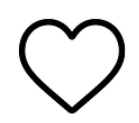
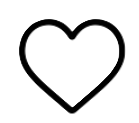
feat: add category to endpage, fix UI after feedback

diff --git a/script.js b/script.js
@@ -5,16 +5,42 @@ if (!localStorage.getItem("sessionId")) {
 
 // Statistiken
 let posts = [];
-let statLikes = 0;
-let statShares = 0;
-let statWarning = 0;
+let stats = JSON.parse(localStorage.getItem("stats")) || {
 
-let realLikes = 0;
-let fakeLikes = 0;
-let realShares = 0;
-let fakeShares = 0;
-let realWarning = 0;
-let fakeWarning = 0;
+  // Gesamtwerte
+  statLikes: 0,
+  statShares: 0,
+  statWarning: 0,
+
+  // Korrekt/Falsch
+  realLikes: 0,
+  fakeLikes: 0,
+  realShares: 0,
+  fakeShares: 0,
+  realWarning: 0,
+  fakeWarning: 0,
+
+  // Kategorien: Likes
+  neutralNewsLikes: 0,
+  neutralPostLikes: 0,
+  emotionalNewsLikes: 0,
+  disinfoLikes: 0,
+  emotionalDisinfoLikes: 0,
+
+  // Kategorien: Shares
+  neutralNewsShares: 0,
+  neutralPostShares: 0,
+  emotionalNewsShares: 0,
+  disinfoShares: 0,
+  emotionalDisinfoShares: 0,
+
+  // Kategorien: Warnungen
+  neutralNewsWarning: 0,
+  neutralPostWarning: 0,
+  emotionalNewsWarning: 0,
+  disinfoWarning: 0,
+  emotionalDisinfoWarning: 0
+};
 
 
 // Posts laden
@@ -27,12 +53,8 @@ fetch("posts.json")
   .catch(error => console.error("Fehler beim Laden der Posts:", error));
 
 
-// Bewertungslogik: Nur „Neutrale Nachricht“ ist korrekt
 function isCorrectCategory(category) {
-  return (
-    category === "Neutrale Nachricht" ||
-    category === "Neutraler Beitrag"
-  );
+return category === "neutralNews" || category === "neutralPost";
 }
 
 
@@ -94,7 +116,9 @@ function renderAllPosts() {
     // LIKE
     likeBtn.onclick = () => {
       likeBtn.src = "images/like-red.PNG";
-      disableOtherButtons(warnBtn, likeBtn);
+
+      warnBtn.style.pointerEvents = "none";
+      warnBtn.style.opacity = "0.4";
 
       let count = parseInt(likeCount.textContent);
       likeCount.textContent = count + 1;
@@ -105,14 +129,23 @@ function renderAllPosts() {
     // SHARE
     shareBtn.onclick = () => {
       shareBtn.src = "images/share-green.PNG";
-      disableOtherButtons(warnBtn, shareBtn);
+
+      warnBtn.style.pointerEvents = "none";
+      warnBtn.style.opacity = "0.4";
+
       handleAction("share", post);
     };
 
     // WARNING
     warnBtn.onclick = () => {
       warnBtn.src = "images/warning-red.png";
-      disableOtherButtons(warnBtn, likeBtn, shareBtn);
+
+      likeBtn.style.pointerEvents = "none";
+      likeBtn.style.opacity = "0.4";
+
+      shareBtn.style.pointerEvents = "none";
+      shareBtn.style.opacity = "0.4";
+
       handleAction("warning", post);
     };
 
@@ -123,37 +156,39 @@ function renderAllPosts() {
   });
 }
 
-
-// Buttons deaktivieren
-function disableOtherButtons(active, ...others) {
-  others.forEach(btn => {
-    btn.style.pointerEvents = "none";
-    btn.style.opacity = "0.4";
-  });
-
-  active.style.pointerEvents = "none";
-}
-
-
 // Aktionen zählen
 function handleAction(action, post) {
   const correct = isCorrectCategory(post.category);
 
+  // Gesamtzähler
+  if (action === "like") stats.statLikes++;
+  if (action === "share") stats.statShares++;
+  if (action === "warning") stats.statWarning++;
+
+  // Korrekt/Falsch
   if (action === "like") {
-    statLikes++;
-    correct ? realLikes++ : fakeLikes++;
+    correct ? stats.realLikes++ : stats.fakeLikes++;
   }
 
   if (action === "share") {
-    statShares++;
-    correct ? realShares++ : fakeShares++;
+    correct ? stats.realShares++ : stats.fakeShares++;
   }
 
   if (action === "warning") {
-    statWarning++;
-    correct ? realWarning++ : fakeWarning++;
+    correct ? stats.realWarning++ : stats.fakeWarning++;
   }
 
+  // Kategorien zählen
+  const cat = post.category;
+
+  if (action === "like") stats[cat + "Likes"]++;
+  if (action === "share") stats[cat + "Shares"]++;
+  if (action === "warning") stats[cat + "Warning"]++;
+
+  // Speichern
+  localStorage.setItem("stats", JSON.stringify(stats));
+
+  // Tracking an Server
   trackClick(post.id, action, correct);
 }
 
@@ -233,21 +268,15 @@ async function trackClick(postId, userChoice, isCorrect) {
   }
 }
 
+function startGame() {
+  localStorage.removeItem("stats");
+  window.location.href = "spiel.html";
+}
+
+
 
 // Weiterleitung + Stats speichern
 function goToEndScreen() {
-  const stats = {
-    statLikes,
-    statShares,
-    statWarning,
-    realLikes,
-    fakeLikes,
-    realShares,
-    fakeShares,
-    realWarning,
-    fakeWarning,
-  };
-
   localStorage.setItem("stats", JSON.stringify(stats));
   window.location.href = "end.html";
 }

diff --git a/end.html b/end.html
@@ -70,23 +70,48 @@
 
               <div id="auswertung" class="text-lg text-gray-800"></div>
 
-              <script>
-                const stats = JSON.parse(localStorage.getItem("stats"));
+          <script>
+  const stats = JSON.parse(localStorage.getItem("stats"));
 
-                if (stats) {
-                  document.getElementById("auswertung").innerHTML = `
-      Du hast <strong>${stats.statLikes + stats.statShares}</strong> Beiträge geliked und/oder geteilt.<br>
-      Davon waren <strong>${stats.realLikes + stats.realShares}</strong> korrekt eingestuft 
-      und <strong>${stats.fakeLikes + stats.fakeShares}</strong> falsch eingestuft.<br><br>
+  if (stats) {
+    document.getElementById("auswertung").innerHTML = `
+      <h2 class="text-xl font-semibold mb-4">Deine Auswertung</h2>
 
-      Du hast <strong>${stats.statWarning}</strong> Beiträge kritisch markiert.<br>
-      Davon waren <strong>${stats.realWarning}</strong> korrekt gewarnt 
-      und <strong>${stats.fakeWarning}</strong> fälschlicherweise gewarnt.<br>
+      <strong>Gesamtreaktionen:</strong><br>
+      Likes/Shares: <strong>${stats.statLikes + stats.statShares}</strong><br>
+      Kritische Markierungen: <strong>${stats.statWarning}</strong><br><br>
+
+      <h3 class="font-semibold mt-4">Reaktionen nach Kategorien</h3>
+
+      <strong>Neutrale Beiträge:</strong><br>
+      Likes/Shares: ${stats.neutralPostLikes + stats.neutralPostShares}<br>
+      Kritische Markierungen: ${stats.neutralPostWarning}<br><br>
+
+      <strong>Neutrale Nachrichten:</strong><br>
+      Likes/Shares: ${stats.neutralNewsLikes + stats.neutralNewsShares}<br>
+      Kritische Markierungen: ${stats.neutralNewsWarning}<br><br>
+
+      <strong>Emotionalisierende Nachrichten:</strong><br>
+      Likes/Shares: ${stats.emotionalNewsLikes + stats.emotionalNewsShares}<br>
+      Kritische Markierungen: ${stats.emotionalNewsWarning}<br><br>
+
+      <strong>Desinformation:</strong><br>
+      Likes/Shares: ${stats.disinfoLikes + stats.disinfoShares}<br>
+      Kritische Markierungen: ${stats.disinfoWarning}<br><br>
+
+      <strong>Emotionalisierende Desinformation:</strong><br>
+      Likes/Shares: ${stats.emotionalDisinfoLikes + stats.emotionalDisinfoShares}<br>
+      Kritische Markierungen: ${stats.emotionalDisinfoWarning}<br><br>
+
+      <h3 class="font-semibold mt-4">Endergebnis:</h3>
+      Korrekt eingestuft: <strong>${stats.realLikes + stats.realShares + stats.realWarning}</strong><br>
+      Nicht ganz passend eingestuft: <strong>${stats.fakeLikes + stats.fakeShares + stats.fakeWarning}</strong> -probier's direkt nochmal <br>
     `;
-                } else {
-                  document.getElementById("auswertung").innerHTML = "Keine Daten gefunden.";
-                }
-              </script>
+  } else {
+    document.getElementById("auswertung").innerHTML = "Keine Daten gefunden.";
+  }
+</script>
+
 
             </div>
 
@@ -125,11 +150,10 @@
   </div>
   <div class="pb-4 flex justify-center">
     <div class="pb-4">
-      <a href="spiel.html">
-        <button class="bg-blue-500 text-white px-4 py-2 rounded mt-4">
-          Noch einmal Versuchen
-        </button>
-      </a>
+ <button onclick="restartGame()" class="bg-blue-500 text-white px-4 py-2 rounded mt-4">
+  Noch einmal versuchen
+</button>
+
     </div>
     <div id="postsWrapper" class="space-y-6"></div>
   </div>

diff --git a/style.css b/style.css
@@ -97,3 +97,28 @@ h1 {
   height: 60px;
   background: linear-gradient(to bottom, rgba(255,255,255,0), white);
 }
+
+
+.game-legend {
+   display: flex;
+  flex-direction: row;
+  justify-content: space-between;
+  align-items: center;
+  gap: 20px;
+  margin: 15px 0;
+  padding: 0 10px;
+  opacity: 0.85;
+}
+
+.game-legend img {
+  width: 22px;
+  height: 22px;
+  margin-bottom: 3px;
+}
+
+.legend-item {
+  display: flex;
+  flex-direction: column;
+  align-items: center;
+  font-size: 12px;
+}

diff --git a/spiel.html b/spiel.html
@@ -78,6 +78,30 @@
       <div id="modal-body"></div>
     </div>
   </div>
+
+  <div class="game-legend">
+  <div class="legend-item">
+    <img src="images/like.PNG" alt="Like" />
+    <span>Positiv</span>
+  </div>
+
+  <div class="legend-item">
+    <img src="images/comment.PNG" alt="Kommentare" />
+    <span>Kommentare</span>
+  </div>
+
+  <div class="legend-item">
+    <img src="images/share.PNG" alt="Teilen" />
+    <span>Teilen</span>
+  </div>
+
+  <div class="legend-item">
+    <img src="images/warning.png" alt="Kritisch" />
+    <span>Kritisch</span>
+  </div>
+</div>
+
+
   <a href="feedback.html">
     <button id="auswertungBtn" class="bg-blue-500 text-white px-4 py-2 rounded mt-4">
       zum Feedback

diff --git a/index.html b/index.html
@@ -74,11 +74,13 @@
               <p class="text-black-700 text-m">
                 Dieses Spiel simuliert ein Social Media Feed. 
                 Wie in realen Feeds siehst du Beiträge von Freunden aber auch Nachrichtenquellen. <br>
-                Deine Aufgabe ist es, dir die Posts anzusehen und mit diesen Beiträgen zu interagieren.
+                Deine Aufgabe ist es, dir die Posts genau anzusehen, sie inhaltlich zu bewerten und entsprechend darauf zu reagieren.
                 ABER: Bleib aufmerksam! Sowohl falsche Nachrichten aber auch reale Inhalte können übertrieben, 
                 emotional oder irreführend dargestellt sein.  <br>
                 Schau dir die Beiträge an und entscheide: ist der Inhalt seriös?
-                Du kannst unterschiedlich reagieren:
+                Du kannst sie liken und/oder teilen ODER kritisch makieren. 
+                Wichtig: Sobald du reagiert hast, kannst du deine Entscheidung nicht mehr ändern.
+                Du musst auch nicht bei jedem Post reagieren aber du kannst unterschiedlich reagieren:
               </p>
             </div>
 
@@ -128,14 +130,11 @@
         </div>
 
 
-        <div class="pb-4">
-          <a href="spiel.html">
-            <button class="w-full bg-blue-600 text-white py-3 rounded-xl text-lg font-semibold shadow">
-              Spiel beginnen
-            </button>
-          </a>
-        </div>
-
+      <div class="pb-4">
+  <button onclick="startGame()" class="w-full bg-blue-600 text-white py-3 rounded-xl text-lg font-semibold shadow">
+    Spiel beginnen
+  </button>
+</div>
       </div>
 
 

diff --git a/scriptend.js b/scriptend.js
@@ -67,3 +67,8 @@ document.getElementById("feedbackSubmit")?.addEventListener("click", () => {
         .then(() => alert("Danke für dein Feedback!"))
         .catch(err => console.error("Feedback-Fehler:", err));
 });
+
+function restartGame() {
+  localStorage.removeItem("stats");
+  window.location.href = "spiel.html";
+}